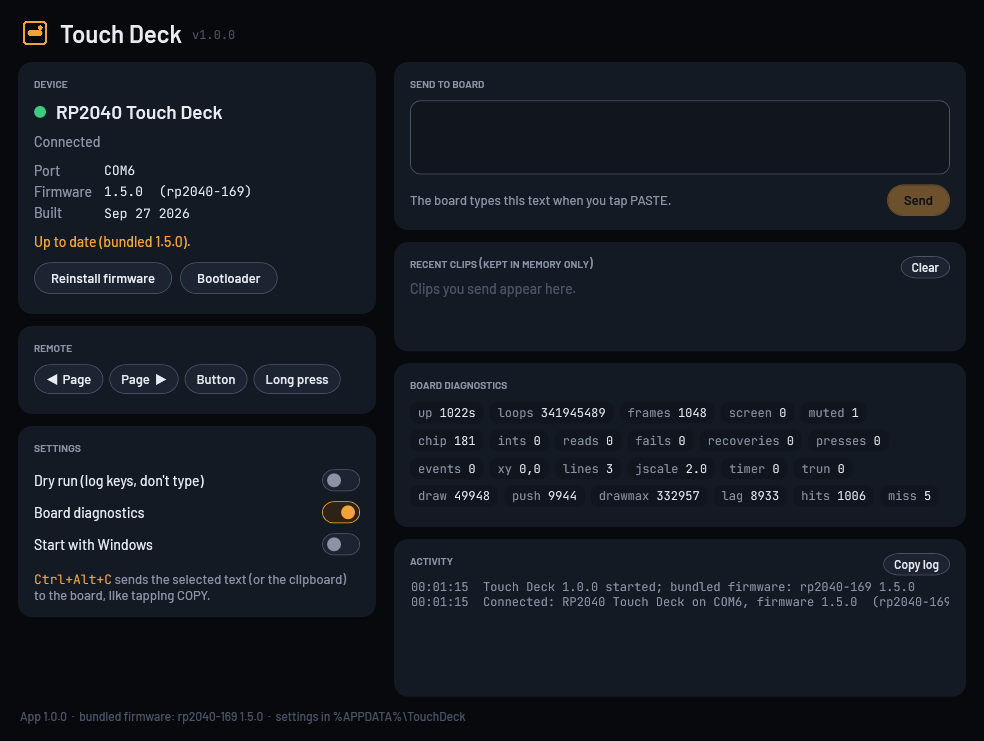
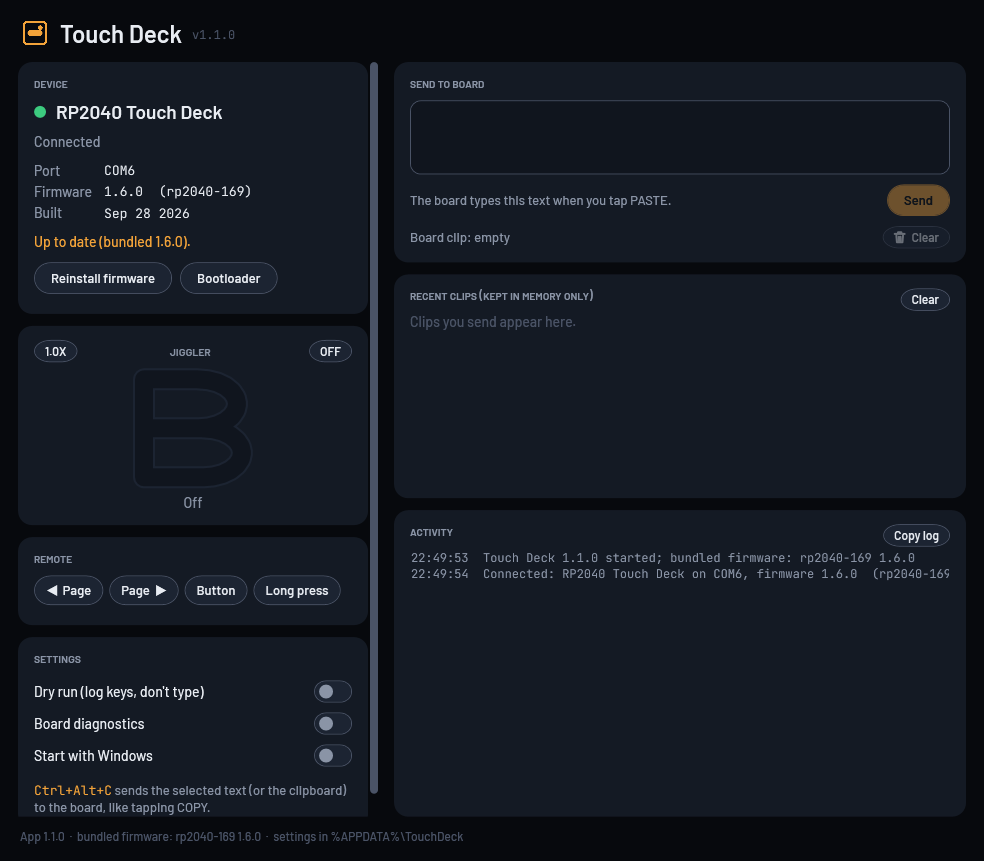
Docs: jiggler letters, trash, tick-only mute, app mirror, host C tests

diff --git a/CLAUDE.md b/CLAUDE.md
@@ -22,7 +22,15 @@ Flash: `python tools/flash.py` — sends `BOOT` over the firmware's serial port,
 
 PC helper: `py tools\clip_helper.py` or `python tools/clip_helper.py`. On this PC those are **different interpreters**: `py` is Python 3.14 and `python` is 3.9, so install into the one you run with `<py|python> -m pip install -r tools/requirements.txt`. The committed `aa_fonts.*` were rendered with Pillow 11.3/FreeType 2.13 (the `python` 3.9 env). Regenerating under 3.14's FreeType 2.14 changes the glyph bitmaps slightly, so regenerate with `python`. `--send TEXT` pushes a clip, `--boot` enters the bootloader.
 
-**Tests:** `py -m pytest tools/tests -q`. The unit tests (helper protocol, SendInput injector, font generator, and that every UI label fits its button or circle chord) always run. The board tests in `test_board_*.py` drive the **ESP32-C3** over its serial port and skip when it isn't connected; see the ESP32-C3 section. The RP2040 firmware has no automated tests. Verify it by building, then with the serial protocol from Python (HELLO→PONG, DBG liveness: `frames` rising, touch `fails=0`), then by looking at the device. PASTE and the jiggler inject real keystrokes/mouse input on the PC (RP2040: always, over USB HID; ESP32-C3: in PC mode through the helper), so trigger them deliberately, or use `clip_helper.py --dry-run`.
+**Tests:** `python -m pytest tools/tests -q`.
+- **Unit tests (always run):** helper protocol, SendInput injector, the font generator (every UI label fits its button or circle chord) and the jiggler letters (`test_jigpaths.py`).
+- **Host C tests:** `test_jigpaths.py` and `test_gfx_line.py` compile the firmware's own C (`jig_motion.c`, `gfx.c`) into a DLL with MSVC (VS 2022 `vcvars64.bat`, found automatically) and drive it through ctypes. They skip when MSVC is missing.
+  - The jiggler tests check that the dot stays in its lane, letters loop or bounce, the mouse stays bounded and switches glide.
+  - `test_gfx_line.py` checks `gfx_line` pixel for pixel against the original full-bounding-box algorithm.
+- **Board tests:**
+  - `test_board_rp2040.py` drives the RP2040 on COM6 with `SWIPE`, `BTN`, `TAP x y`, `WATCH`/`STATE`, `JIG`, `CLIP CLEAR`, `ANIM` and `DBG` (fields include `jig=`, `jscale=`, `letter=`, `clip=`). Two of its tests turn the jiggler on for about 0.3 s, which moves the real mouse.
+  - `test_board_*` for the ESP32-C3 cover the ESP32 side; see its section.
+  - All board tests skip when their board is absent. They fail with "Access is denied" while the Windows app or `clip_helper.py` holds the port, so quit those first (`"%LOCALAPPDATA%\Programs\Touch Deck\TouchDeck.exe" --quit`). PASTE and the jiggler inject real keystrokes/mouse input on the PC (RP2040: always, over USB HID; ESP32-C3: in PC mode through the helper), so trigger them deliberately, or use `clip_helper.py --dry-run`.
 
 **Firmware version:** `src/version.h` and `esp32c3/src/version.h` define `FW_BOARD` and `FW_VERSION`, and the `VER` serial command replies `VERSION <board> <version> <build date>`. Bump `FW_VERSION` on every firmware change that ships. The Windows app (`windows-app/`) shows it and offers an RP2040 update when its bundled firmware is newer.
 
@@ -40,19 +48,33 @@ Pin map lives in `src/board.h`. Non-obvious points:
 
 - `usb_io.c` + `usb_descriptors.c`: one HID interface with report IDs (1 keyboard, 2 mouse) plus CDC. The CDC line protocol with `tools/clip_helper.py` is documented at the top of `usb_io.c`. HID is device→host only; the host's single message back is the keyboard LED state, used to compensate for Caps Lock while typing.
 - `typer.c`: types `app.clip` as US-layout keystrokes (TinyUSB `HID_ASCII_TO_KEYCODE`), press/release with small gaps. Non-ASCII is skipped on the board; the helper transliterates before sending.
-- `jiggler.c`: relative mouse deltas that track a wobbling circle (accumulated rounding, so no drift from truncation), with a periodic STOP → right-click → wait → ESC → resume sequence. A paste waits until the jiggler is back in `JIG_CIRCLE`, then pauses it.
+- **Jiggler letters.** `jiggler.c` drives the shared engine `jig_motion.c`, which walks the dot along a letter lane from `jig_paths.c`.
+  - **Engine:** motion by arc length at about 920 box units/s with ±30% drift. Closed letters (O, B, D) loop; the rest bounce. Sideways wander within the lane follows a smoothed normal, so it never jumps at corners. The glide between letters takes 0.5 s. `jm_mouse` gives `0.12 px × scale × (dot − start)`, so the mouse stays in the area where it started.
+  - **Mouse output:** relative deltas with accumulated rounding, so there's no drift from truncation.
+  - **Phases:** a periodic STOP → right-click → wait → ESC → RESUME sequence. RESUME picks a random different letter (`jm_pick`). A paste waits until the jiggler is back in `JIG_MOVING`, then pauses it. `ANIM 1` walks a letter on screen without HID.
+  - **Letter shapes and board lane geometry** live only in `tools/jigpaths.py`. Run `python tools/jigpaths.py` and it writes `src/jig_paths.*`, `esp32c3/src/jig_paths.*` and the app's `JigPaths.g.cs`. **Never hand-edit those.** A pytest fails when they are stale.
+  - **Shared files:** `jig_motion.*` and `jig_lane.*` (lane drawing: a wide wall stroke, then the inner stroke) are identical in both trees, and a pytest checks that.
 - `touch.c`: classifies tap / long-press / swipe itself instead of using the chip's gesture engine. **Never read the CST816 on a timer.** Unsolicited reads wedge it within seconds, holding SDA low. Reads happen only after a TP_INT falling-edge IRQ, and finger-lift is inferred from INT pulses stopping (`RELEASE_MS`). A failed read triggers an I2C bus clear plus a chip reset. The `DBG` serial command reports touch stats without touching the chip; `python tools/clip_helper.py --debug` logs it every 2 s.
 - `lcd.c`: ST7789 driver. Commands go over 8-bit SPI; `lcd_push_frame()` switches SPI to 16-bit frames and DMAs the whole framebuffer (16-bit frames give the panel's big-endian byte order for free). Always `lcd_wait()` before writing to `fb` again: it restores 8-bit mode and releases CS.
 - `gfx.c`: one full-screen RGB565 framebuffer (`fb`, ~134 KB of 264 KB RAM, so double buffering won't fit). Primitives are signed-distance based and anti-aliased by blending into existing pixels, so draw order matters. Discs/rings fill solid spans and only do distance math on edge pixels. Text uses the design's typefaces (Barlow, JetBrains Mono) as 4-bit anti-aliased fonts in `aa_fonts.c`, generated by `python tools/fontgen.py`, which writes both trees. Never hand-edit `aa_fonts.*`; change sizes in `FONTS` and regenerate. Draw text with `gfx_text_aa*` and position it by the capital-letter centre (`gfx_text_aa_ytop`). `tools/tests/test_fontgen.py` checks that every UI label fits its button or circle chord, so add new labels there.
 - `settings.c`: persistent settings (`muted`, `jig_on`) in the last 4 KB flash sector (`PICO_FLASH_SIZE_BYTES - 4K`; the board has 16 MB but the `pico` board config assumes 2 MB, which is fine). Append-only 256-byte records, newest valid wins, erase only when all 16 pages are used. Writes go through `flash_safe_execute`, which requires core1 to have called `flash_safe_execute_core_init()` (first line of `ui_core1_main`) — keep that if core1's entry changes. UF2 flashing doesn't touch that sector, so settings survive firmware updates. Add new fields to `record_t` by bumping `MAGIC` and keeping a reader for the previous layout (see `MAGIC_V1`) so users don't lose settings on upgrade. A saved `jig_on` restarts the jiggler at boot via `jiggler_set(true)`; it only moves once USB is mounted.
 - `ui.h` holds button/hit-area geometry shared by drawing (core1) and touch handling (core0).
+- **Mute** silences only the once-a-second watch tick. The touch/button click (`feedback()`) always sounds.
+- **Clipboard trash** (`TRASH_CX/CY`) and the `CLIP CLEAR` command call `clip_clear()`, which does nothing when the clip is empty or a paste is typing.
+- **Jiggler page:**
+  - the scale pill (top-left) and BOOT call `jig_cycle_scale()`;
+  - the ON/OFF pill (top-right) and the letter box plus 10 px toggle the jiggler.
+- **App mirror protocol** (header of `usb_io.c`):
+  - `WATCH 1` makes `usb_state_poll()` send `STATE jig= letter= scale= phase= x= y= clip= paste=` on any change, with the dot position at most every 100 ms;
+  - `JIG ON|OFF`, `JIG SCALE n` and `CLIP CLEAR` control the board from the app.
+  - Keep the ESP32's `link.cpp` identical, and update the app's `BoardLine.StateReport` when it changes.
 - **Frame scheduling (core1, `ui_core1_main`):** three frame types.
   - **Full redraw:** only when core0 bumps `redraw_seq`, the page changes, or an `app_message` appears or expires.
-  - **Partial redraw:** on animating pages (the jiggler on, or a paste in progress), only fixed regions (`JIG_ANIM` / `CLIP_ANIM`) are redrawn at 20 fps. The page is drawn under `gfx_set_clip` and pushed with `lcd_push_rect`.
+  - **Partial redraw:** on animating pages at 20 fps. For the jiggler (on, or `ANIM 1`), that's the dot's old+new box, `dot_rect`, from one position sample per frame (`jig_draw_x/y`), plus the status strip every 250 ms. For a paste in progress, it's `CLIP_ANIM`. The page is drawn under `gfx_set_clip` and pushed with `lcd_push_rect`. Letter lanes are costly to draw in full, about 120 ms, so the jiggler page redraws fully only on letter switch, on/off, scale and page change.
   - **Watch page:** the clock second comes from a **hardware timer alarm** on core0 (`on_second` in `main.c`). It returns 1 s, so it re-arms relative to its scheduled time and never drifts. The interrupt plays the tick exactly on the second and bumps `app.second_edge`. Right after a second is shown, core1 **draws the next second ahead** into fb (clipped to the union of the old and new hands' boxes, `hands_rect`, plus `stopwatch_rect`). When it sees the edge, it only pushes that window, about 8 ms after the tick. A full redraw or a stopwatch update invalidates the prepared frame, and then that second is drawn late (a "miss"). `DBG` reports `lag=` (edge to on screen, prepared frames only), `hits=` and `miss=`. The stopwatch has its own seconds and repaints just its box through `app.watch_tick`. `watch_hands()` is the single definition of the hand geometry used by drawing and the region maths.
   - **Otherwise nothing.**
   - Every primitive honours the clip, so a clipped redraw only pays for the region. If you add something that animates, add its rectangle to the region list, or it will only update on full frames.
-- **Performance:** the core runs at **200 MHz** (1.15 V). `PICO_CLOCK_ADJUST_PERI_CLOCK_WITH_SYS_CLOCK=1` keeps SPI/I2C on that clock; without it the SDK moves clk_peri to 48 MHz and the LCD push gets 2.5x slower. Drawing is software float (no FPU), so it dominates frame time. Running the gfx loops from RAM gave no gain. `py tools/perf_rp2040.py` prints per-page draw/push times from the DBG counters (`draw=`, `push=`, `drawmax=`). `ANIM 1` animates the jiggler page without sending HID.
+- **Performance:** the core runs at **200 MHz** (1.15 V). `PICO_CLOCK_ADJUST_PERI_CLOCK_WITH_SYS_CLOCK=1` keeps SPI/I2C on that clock; without it the SDK moves clk_peri to 48 MHz and the LCD push gets 2.5x slower. Drawing is software float (no FPU), so it dominates frame time. Running the gfx loops from RAM gave no gain. `gfx_line` walks only each row's capsule span, not its whole bounding box. That's pixel-identical to the original, host-tested, and cut the watch from 141 to 22 ms. `py tools/perf_rp2040.py` prints per-page draw/push times from the DBG counters (`draw=`, `push=`, `drawmax=`). `ANIM 1` animates the jiggler page without sending HID.
 - **BOOT button** (`button.c`): read through the flash chip-select from RAM inside `flash_safe_execute`, so `button_init()` must run before core1 starts. On the watch, short press starts/pauses the stopwatch and long press resets it. On the jiggler page it cycles the circle scale 1x/1.5x/2x (saved in the v3 settings record). `BTN [LONG]` and `SWIPE L|R` inject these over serial for `tools/tests/test_board_rp2040.py`.
 - **Visual language** matches the ESP32-C3 port: fixed amber `USB` chip (dot = `tud_mounted()`), a rounded edge ring (`gfx_rrect_ring`), and pill buttons on the Clipboard and Jiggler pages. The watch face and mute icon keep their own look. `src/icons.c` is a copy of `esp32c3/src/icons.c`; keep the two in sync.
 
@@ -66,6 +88,7 @@ This is a PlatformIO project (Arduino-ESP32 2.0.17, LovyanGFX, NimBLE-Arduino 1.
 - `CORE_DEBUG_LEVEL=0` is required, because Arduino core log lines on `Serial` corrupt the helper protocol.
 - Code layout mirrors the RP2040 firmware. `gfx.c` is a copy (the framebuffer is heap-allocated in DMA-capable RAM), `touch.cpp` is the same interrupt-gated CST816 driver, and `typer`/`jiggler` are the same state machines with slower Bluetooth pacing (12 ms key hold/gap, 15 ms mouse step). The Arduino `loop()` runs at priority 2 for logic; `ui_task` renders at priority 1, because the C3 has one core and no FPU. The layout has to stay inside the 240 px circle.
 - **UI** follows the approved mockup (https://claude.ai/artifact/QbZAqAnnHaYKeZfYejQRWz): an edge ring and top chip in the mode colour (amber PC, blue BT) with a link-health dot, pill buttons, three pages (Clipboard, Jiggler, Settings) plus the Settings > Bluetooth sub-page. All hit/draw geometry lives in `ui.h`, and line icons in `icons.c` (plain C, shared with the RP2040 tree). There's no clock on this board's UI.
-- Settings: `Preferences` namespace `touchdeck`, keys `jig` (jiggler on/off, restored at boot) and `mode` (0 = PC, 1 = BT).
+- Settings: `Preferences` namespace `touchdeck`, keys `jig` (jiggler on/off, restored at boot), `jscale` (0-2) and `mode` (0 = PC, 1 = BT).
 - **Output mode is the single source of truth** (spec: `docs/superpowers/specs/2026-09-24-output-mode-design.md`). `typer` and `jiggler` only call `out_key` / `out_mouse` / `out_ready` in `output.cpp`. BT sends Bluetooth HID reports. PC sends `K <mod> <usage>` / `M <btn> <dx> <dy>` lines, which `tools/clip_helper.py` performs with `SendInput` (`tools/inject.py`, scancodes). The helper reports Caps Lock back as `LEDS`. BT is selectable only while bonded. A saved BT with no bond, and Forget, both fall back to PC. Switching mode stops a paste and releases anything held on the old destination.
-- **Board tests:** `test_board_*.py` drive the ESP32-C3 over COM7 with the scripting commands `MODE PC|BT`, `TAP x y`, `SWIPE L|R`, `TEXTW` and `DBG` (it reports `mode=`, `jig=`, `leds=`). They skip when the board is absent, and the unpaired-only checks skip while a Bluetooth bond exists. They also fail with "Access is denied" if `clip_helper.py` is holding the port, so stop the helper first. PlatformIO is installed under `python` (3.9), not `py`.
+- **Jiggler and clipboard** as on the RP2040: letter lanes with the pills beside the letter, a trash can at (178,42), and the same `WATCH`/`STATE`/`JIG`/`CLIP CLEAR`/`ANIM` commands in `link.cpp`. Scale is new on this board: tap the pill; it's saved in `Preferences` key `jscale`. `gfx.c/h` are the RP2040 copy (clip API, `gfx_line` spans) with a heap `fb`. `ui_task` pushes partial frames of the dot and status strip with `display_push_rect`, and full frames on changes.
+- **Board tests:** `test_board_*.py` drive the ESP32-C3 over COM7 with the scripting commands `MODE PC|BT`, `TAP x y`, `SWIPE L|R`, `TEXTW`, `WATCH`, `JIG`, `CLIP CLEAR`, `ANIM` and `DBG` (it reports `mode=`, `jig=`, `leds=`, `jscale=`, `letter=`, `clip=`). They skip when the board is absent, and the unpaired-only checks skip while a Bluetooth bond exists. They also fail with "Access is denied" if `clip_helper.py` is holding the port, so stop the helper first. PlatformIO is installed under `python` (3.9), not `py`.

diff --git a/README.md b/README.md
@@ -26,11 +26,12 @@ Both boards speak the same serial line protocol, which is documented at the top 
 
 It shows up on the PC as a USB composite device (`CAFE:4011`): a keyboard, a mouse and a serial port. Swipe between three pages:
 
-- **Watch.** A rounded-square analog face that ticks every second on the speaker. The tick is driven by a hardware timer, so it's exactly on the second. There's a mute toggle in the corner. The **BOOT button** starts and pauses a stopwatch; a long press resets it.
+- **Watch.** A rounded-square analog face that ticks every second on the speaker. The tick is driven by a hardware timer, so it's exactly on the second. There's a mute toggle in the corner; it silences only the tick, and touch clicks always sound. The **BOOT button** starts and pauses a stopwatch; a long press resets it.
 - **Clipboard.** COPY asks the PC for the selected text; PASTE types it as US-layout keystrokes, adjusting for Caps Lock.
-- **Jiggler.** Moves the mouse in a loose, wobbling circle. Every so often it stops, right-clicks, presses Esc, then carries on. BOOT cycles the circle size (1x, 1.5x, 2x).
+- **Clipboard trash.** A bin next to the title clears the board's clip. It only works when there's text and no paste is typing.
+- **Jiggler.** The dot drives along an outlined letter lane (O W M N Z X C V H J L B G D) and the mouse follows it in proportion, drifting within the lane like a car in its lane. O, B and D loop; the other letters bounce back at their ends. Every so often it stops, right-clicks, presses Esc, then glides on to a new random letter. The mouse always stays in the area where it started. The scale pill (top-left) and BOOT change the size (1x, 1.5x, 2x). The ON/OFF pill (top-right) and a tap on the letter turn it on and off.
 
-Mute, jiggler on/off and circle size are saved to flash, and they survive power-off and firmware updates. The core runs at 200 MHz. Only the parts of the screen that change are redrawn, and each watch second is drawn in advance so it appears about 8 ms after the tick.
+Mute, jiggler on/off and size are saved to flash, and they survive power-off and firmware updates. The core runs at 200 MHz. Only the parts of the screen that change are redrawn, and each watch second is drawn in advance so it appears about 8 ms after the tick.
 
 ### ESP32-2424S012C (1.28" round, touch)
 
@@ -39,7 +40,7 @@ The ESP32-C3 has no USB keyboard/mouse hardware, so it has two **output modes**:
 - **BT:** a Bluetooth LE keyboard and mouse, paired explicitly with an on-screen 6-digit passkey.
 - **PC:** the board sends its key and mouse reports over USB serial, and the PC app performs them.
 
-It has Clipboard, Jiggler and Settings pages. There's no clock or speaker on this board.
+It has Clipboard, Jiggler and Settings pages with the same trash can and letter lanes. On the round screen the jiggler's pills sit either side of the letter. There's no clock or speaker on this board.
 
 ## Touch Deck for Windows
 
@@ -52,6 +53,7 @@ Install `TouchDeck-<version>.msi`. It installs just for you, needs no admin righ
 - sends the current selection to the board with **Ctrl+Alt+C** from any app;
 - keeps a list of recent clips in memory only;
 - gives you remote page and button controls, live board diagnostics, and dry-run mode;
+- shows a live **jiggler card**: the board's current letter, the moving dot, and ON/OFF and size buttons, plus the board's clip length with a Clear button (firmware 1.6.0 and later);
 - lives in the tray.
 
 See [`windows-app/README.md`](windows-app/README.md) for details and build steps.
@@ -95,13 +97,19 @@ Only one program can hold the board's serial port at a time. Quit the app before
 
 ## Tests
 
-- `pytest tools/tests` covers the helper protocol, the SendInput injector, and the font generator, including a check that every UI label fits its button. The `test_board_*` files drive a connected board and skip when it's absent.
+- `pytest tools/tests` covers:
+  - the helper protocol and the SendInput injector;
+  - the font generator, including a check that every UI label fits its button;
+  - the jiggler letters: every lane fits both screens, the dot stays inside its lane, letters loop or bounce correctly, and the mouse stays bounded. This drives the shared C engine, built on the PC with MSVC;
+  - `gfx_line`, checked pixel for pixel against the reference algorithm, also built with MSVC.
+
+  The MSVC-based tests skip without Visual Studio. The `test_board_*` files drive a connected board and skip when it's absent.
 - `dotnet test windows-app/TouchDeck.sln` covers the app: protocol, injection, session, device manager, settings and firmware update, plus hardware smoke tests.
 - `windows-app/tools/install-smoke.ps1` is a real install, run and uninstall check of the MSI.
 
 ## Firmware versions
 
-`src/version.h` and `esp32c3/src/version.h` define the board ID and version, and the `VER` command reports them. Bump `FW_VERSION` whenever the firmware changes. The Windows app compares the board's version with the one it bundles and offers the update.
+`src/version.h` and `esp32c3/src/version.h` define the board ID and version (1.6.0), and the `VER` command reports them. Bump `FW_VERSION` whenever the firmware changes. The Windows app compares the board's version with the one it bundles and offers the update.
 
 ## Credits
 

diff --git a/windows-app/CLAUDE.md b/windows-app/CLAUDE.md
@@ -25,8 +25,18 @@ src\TouchDeck.App\bin\Debug\net8.0-windows\TouchDeck.exe --smoke <dir>   # snaps
   - `App/`: settings, RAM-only clip history, HKCU Run autostart.
   - `Firmware/`: manifest, UF2 validation, update flow.
 - **`DeviceSession`** is single-threaded. `Run()` owns the transport on a worker thread; other threads only queue requests (`SendText`, `Swipe`, `PressButton`, `RequestBootloader`). `Run`'s `finally` always calls `Injector.ReleaseAll()`, so keep it that way. Lines read while waiting for a handshake reply are held and processed later, never dropped.
+- **Board mirror (firmware 1.6.0+):**
+  - The handshake ends with `WATCH 1`, and the board then streams `STATE` lines, parsed as `BoardLine` → `StateReport`.
+  - `DeviceSession.MirrorSupported` is false if no `STATE` arrives within 1.5 s; the app then shows the "update the firmware" fallback on the jiggler card.
+  - Commands: `SetJiggler`, `SetScale`, `ClearClip`.
+  - `JigView` (Core) turns a `StateReport` into the texts the app shows.
+  - `Jiggler/JigPaths.g.cs` is generated by `../tools/jigpaths.py`. Never edit it; regenerate with `python ../tools/jigpaths.py`.
+  - `JiggleLane` (App) draws a letter like the device: a wide accent stroke, then the inner lane.
 - **`DeviceManager`** polls every 2 s and runs one session at a time. It reports `PortBusy` (another program holds the port) and `NotResponding` (no PONG) without throwing.
 - **`AppController`** (App) marshals Core events to the dispatcher and ignores them after dispose. Shutdown order is controller, then tray: producers before consumers.
+- **Unexpected errors** are appended to `%APPDATA%\TouchDeck\errors.log`.
+  - The dispatcher backstop keeps the app running only once the main window exists. An exception during startup is not swallowed, because a windowless app would look alive and do nothing.
+  - WPF event handlers must match the event's own args type, for example `MouseButtonEventArgs` for `MouseLeftButtonUp`. A mismatch fails in XAML at startup, not at compile time.
 - **Firmware update:** it counts as done only when a *new* session reports its version. The old session may not have noticed the reboot yet.
 - **Installer:** installs to `LocalAppDataFolder\Programs\Touch Deck`. `ProgramFiles6432Folder` does not redirect for `perUser`. The payload is harvested with `<Files>`, and the main exe is a named `File` so custom actions can reference it.
   - `--quit`, run from the new package on `WIX_UPGRADE_DETECTED`, closes a running copy before InstallValidate.

diff --git a/windows-app/README.md b/windows-app/README.md
@@ -12,10 +12,17 @@ The Windows companion app for the Touch Deck boards. It replaces `tools/clip_hel
 - **PC output mode (ESP32-C3).** It performs the board's `K`/`M` keyboard and mouse reports with `SendInput` scancodes and reports Caps Lock back as `LEDS`. If the link drops, it releases any held key or button.
 - **Send to board.** Type or paste text in the app, or press **Ctrl+Alt+C** anywhere to send the current selection.
 - **Recent clips.** It keeps the last 10 clips in memory only (never on disk), with Resend and Copy buttons.
+- **Jiggler card (firmware 1.6.0+).** A live copy of the board's jiggler:
+  - the active letter's lane with the moving dot;
+  - ON/OFF and size (1.0X/1.5X/2.0X) buttons, and a click on the letter to toggle;
+  - the board's status (Moving, Right-click menu, …).
+
+  The Send card shows "Board clip: N chars" with a **Clear** button (the board's trash can). Older firmware gets a note to update instead.
 - **Remote.** Page ◀ ▶ and the BOOT button (stopwatch start/pause and reset, jiggler size).
 - **Board diagnostics.** Optionally polls the live `DBG` counters every 2 s.
 - **Firmware update (RP2040).** The app bundles the RP2040 firmware. It reboots the board into its UF2 drive, checks that the image really is an RP2040 UF2, copies it, and waits for the board to report its new version. It also notices a board already sitting in its bootloader. ESP32-C3 firmware is still flashed with PlatformIO.
 - **Tray.** The tray icon's colour shows the link state. Closing the window keeps the app running in the tray. Only one instance runs at a time, and a second launch brings the first to the front.
+- **Error log.** Unexpected errors go to `%APPDATA%\TouchDeck\errors.log`, useful in a bug report.
 - **Settings.** Dry run (log the keys and mouse input instead of performing them), diagnostics, and Start with Windows. They're stored in `%APPDATA%\TouchDeck\settings.json`.
 
 ## Install
